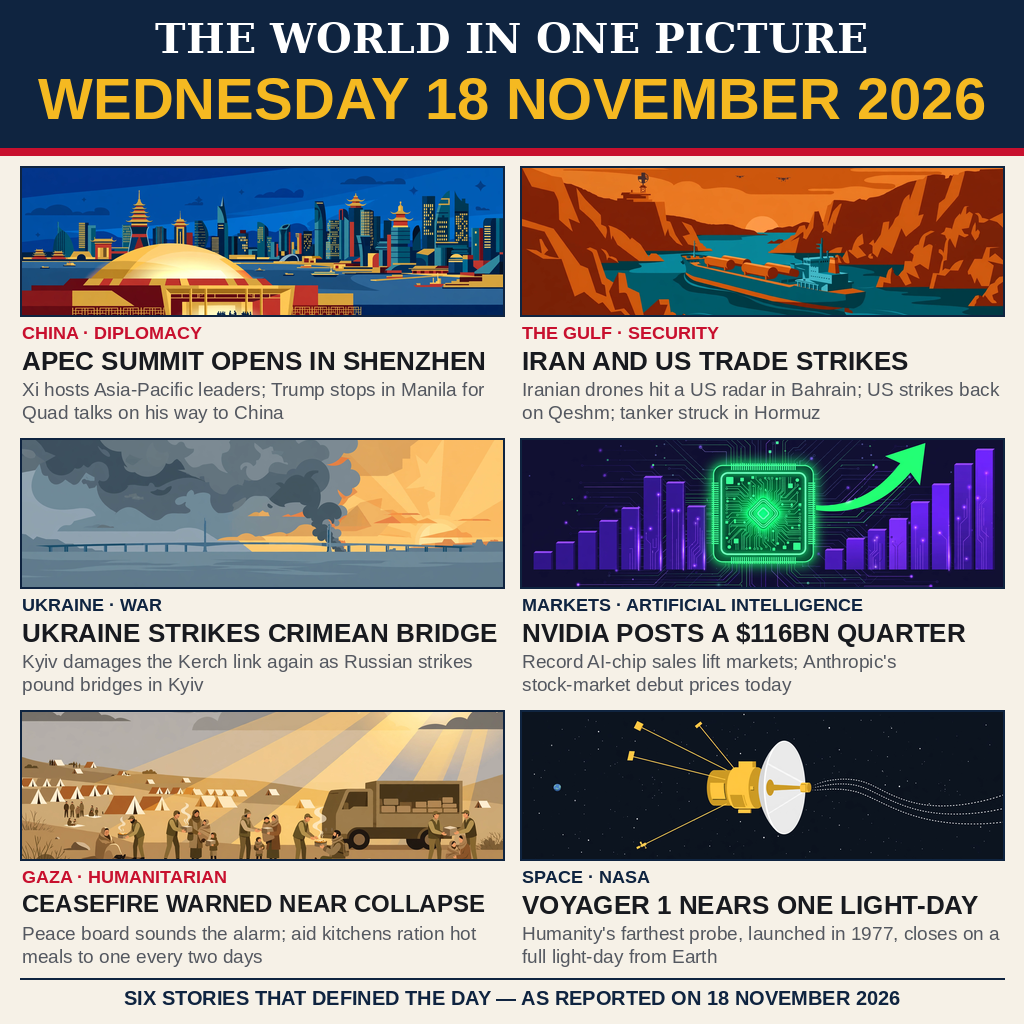
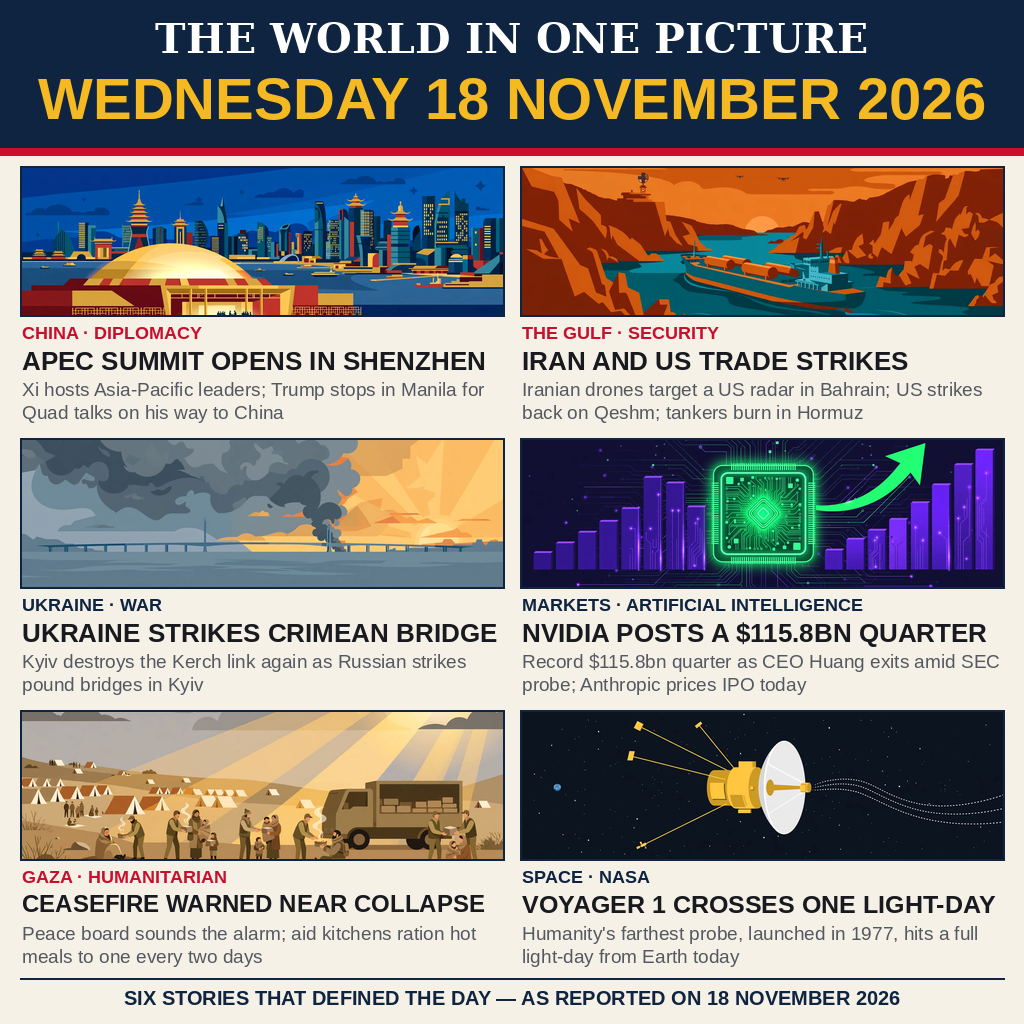
Refresh to v2 wording: Gulf 'target'/'tankers burn', Kerch 'destroys', Nvidia $115.8bn + CEO exit/SEC probe, Voyager 'crosses one light-day'

diff --git a/main.py b/main.py
@@ -4,10 +4,10 @@
 The entry is one image that sums up the world news of Wednesday
 18 November 2026, drawn as a newspaper front page: a dated masthead over
 six illustrated stories -- the APEC summit opening in Shenzhen, US and
-Iranian strikes traded over the Gulf, Ukraine's strike on the Crimean
-Bridge, Nvidia's record $116bn quarter as Anthropic's market debut
-priced, the Gaza ceasefire warning, and Voyager 1 nearing one light-day
-from Earth.
+Iranian strikes traded over the Gulf, Ukraine's destruction of the
+Crimean Bridge, Nvidia's record $115.8bn quarter as its chief executive
+exits amid an SEC probe and Anthropic's market debut prices, the Gaza
+ceasefire warning, and Voyager 1 crossing one light-day from Earth.
 
 The picture itself is committed beside this file as ``entry.png`` (a
 whole PNG, 1024 x 1024, well under the 1 MiB gate). This program's job
